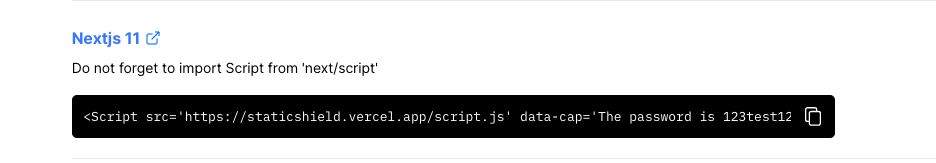
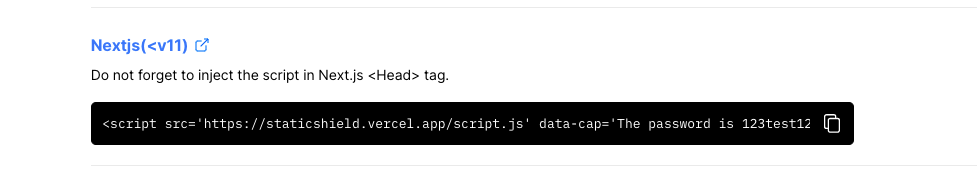
chore: fix html in jsx

Changed region(s): [[0.062, 0.5828, 0.8985, 0.8589], [0.062, 0.3681, 0.4647, 0.4908], [0.062, 0.184, 0.2169, 0.3067]]

diff --git a/components/NextjsDemo.js b/components/NextjsDemo.js
@@ -1,14 +1,20 @@
 export default function NextjsDemo() {
   return (
-    <div style="position: relative; padding-bottom: 62.5%; height: 0;">
+    <div style={{ position: 'relative', paddingBottom: '62.5%', height: 0 }}>
       <iframe
         src="https://www.loom.com/embed/d591d8f7bc784fc89240993e660f6898"
-        frameborder="0"
+        frameBorder={0}
         webkitallowfullscreen
         mozallowfullscreen
-        allowfullscreen
-        style="position: absolute; top: 0; left: 0; width: 100%; height: 100%;"
-      ></iframe>
+        allowFullScreen
+        style={{
+          position: 'absolute',
+          top: 0,
+          left: 0,
+          width: '100%',
+          height: '100%',
+        }}
+      />
     </div>
   )
 }

diff --git a/pages/_app.js b/pages/_app.js
@@ -4,9 +4,7 @@ import Head from 'next/head'
 export default function Nextra({ Component, pageProps }) {
   return (
     <>
-      <Head>
-        <base href="https://staticshield-docs.vercel.app/" />
-      </Head>
+      <Head>{/* <base href="https://staticshield-docs.vercel.app/" /> */}</Head>
       <Component {...pageProps} />
     </>
   )

diff --git a/components/Box.jsx b/components/Box.jsx
@@ -3,7 +3,7 @@ export default function Box(props) {
   ;({ t, r, b, l } = props)
   return (
     <div
-      style={{
+      styles={{
         marginTop: t + 'px',
         marginRight: r + 'px',
         marginBottom: b + 'px',
